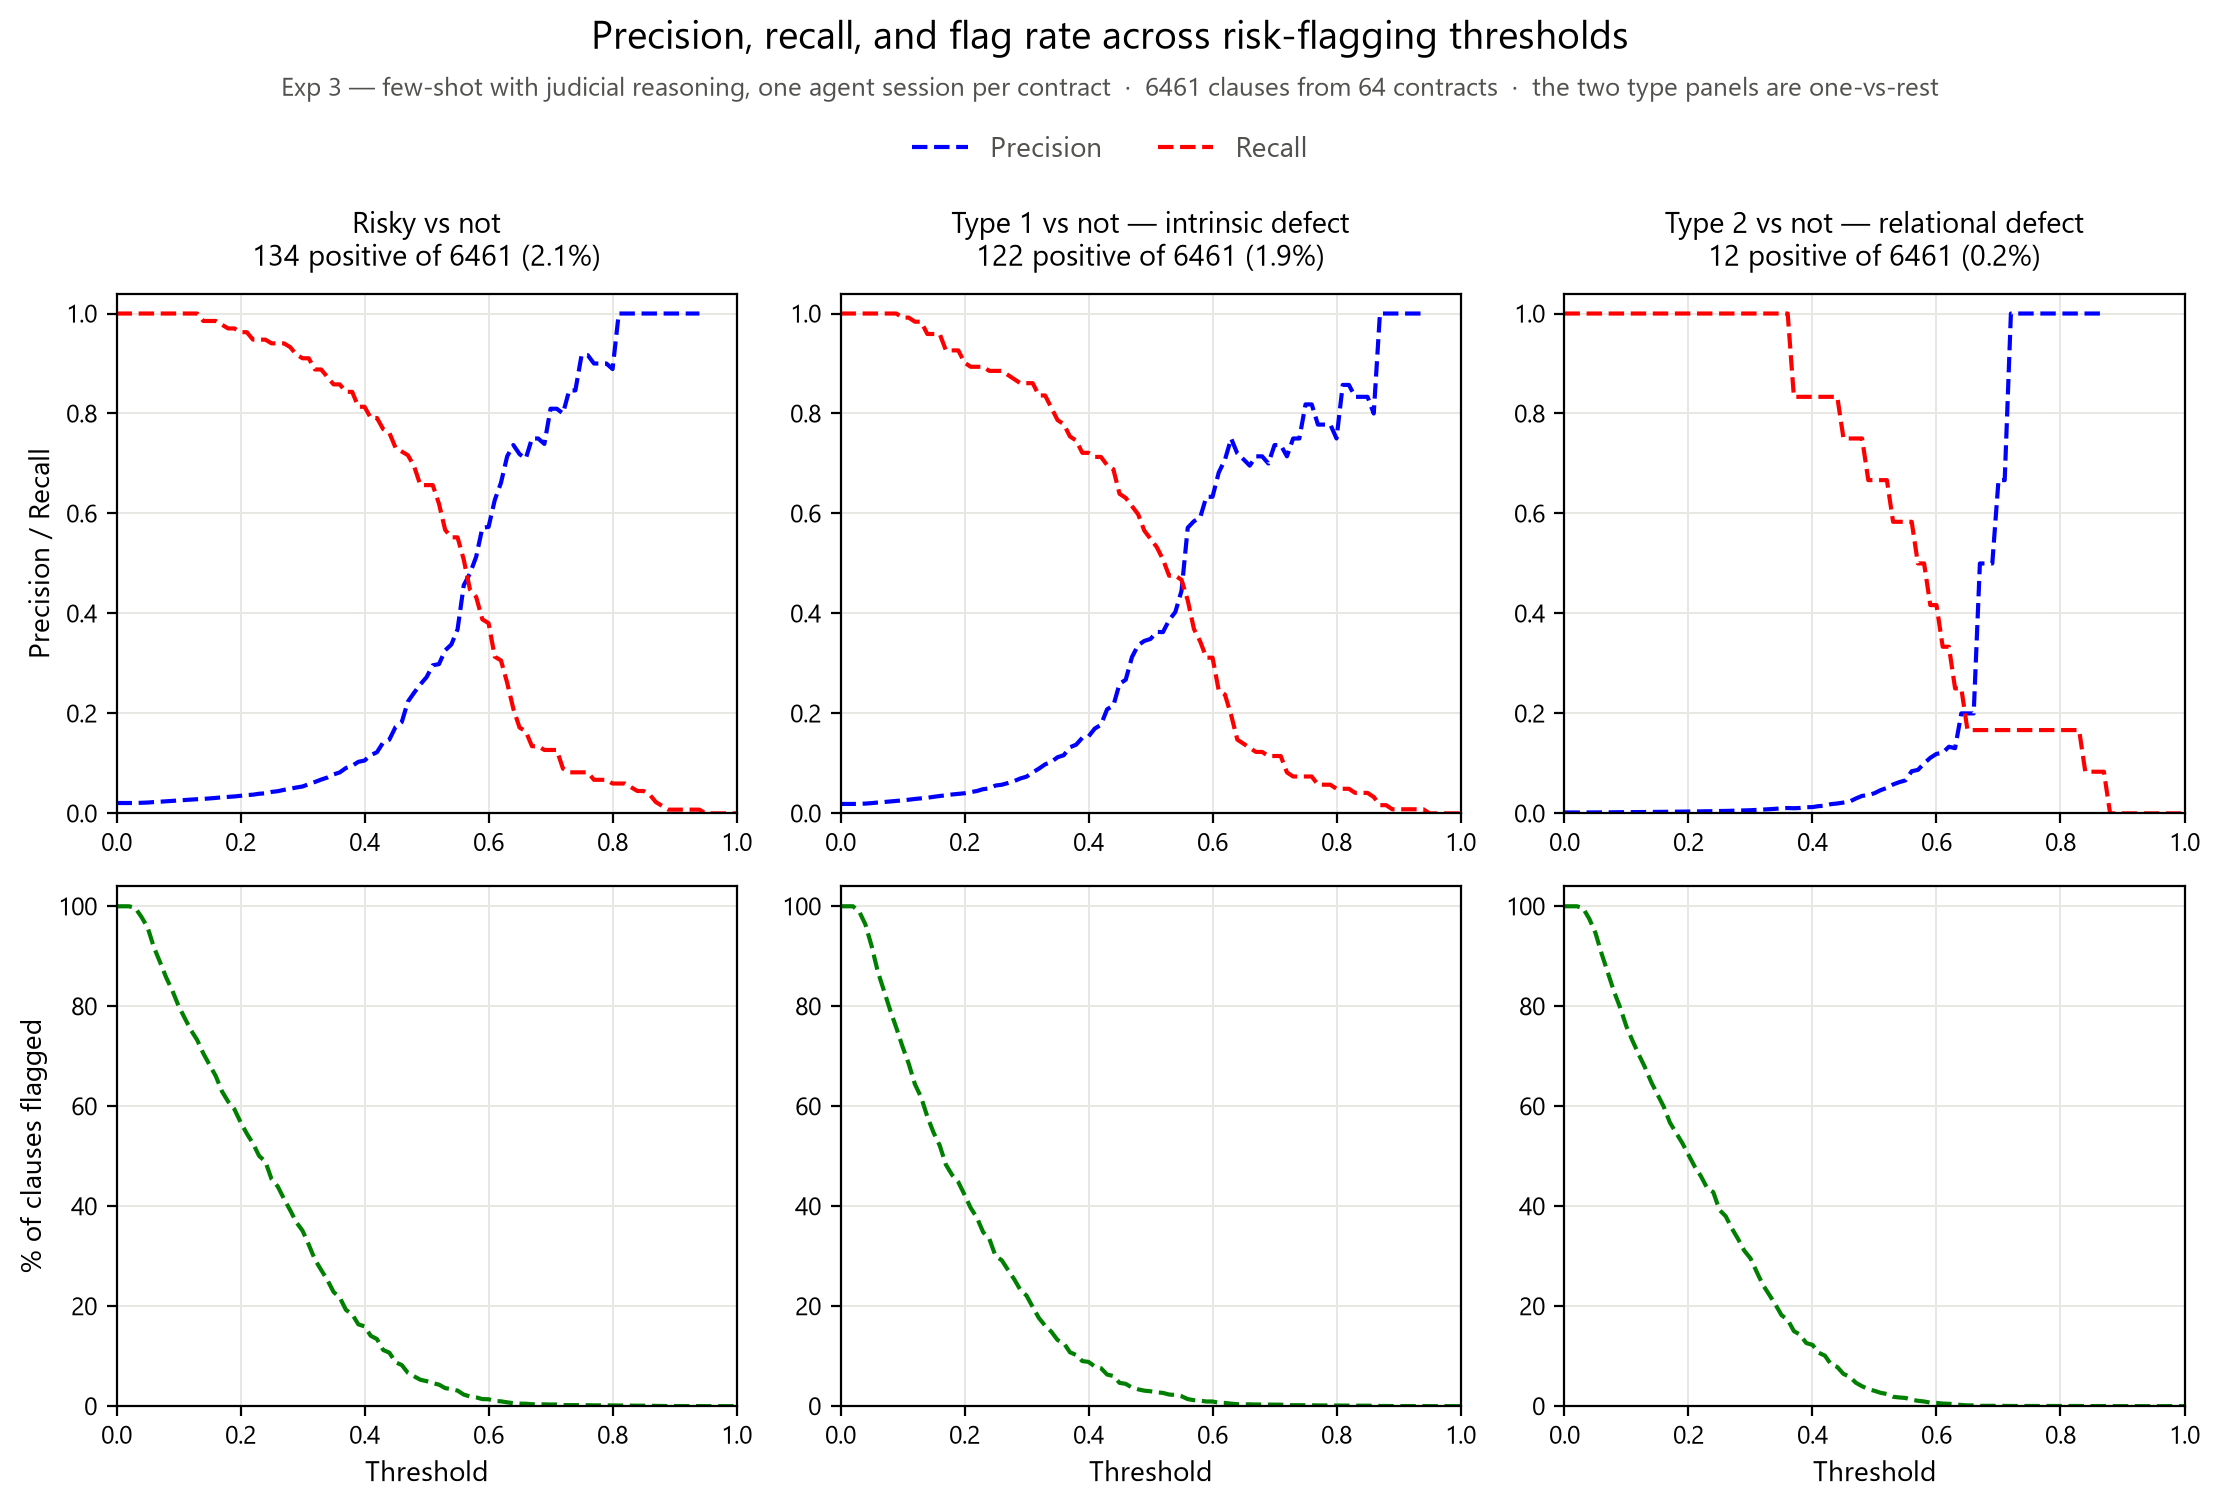
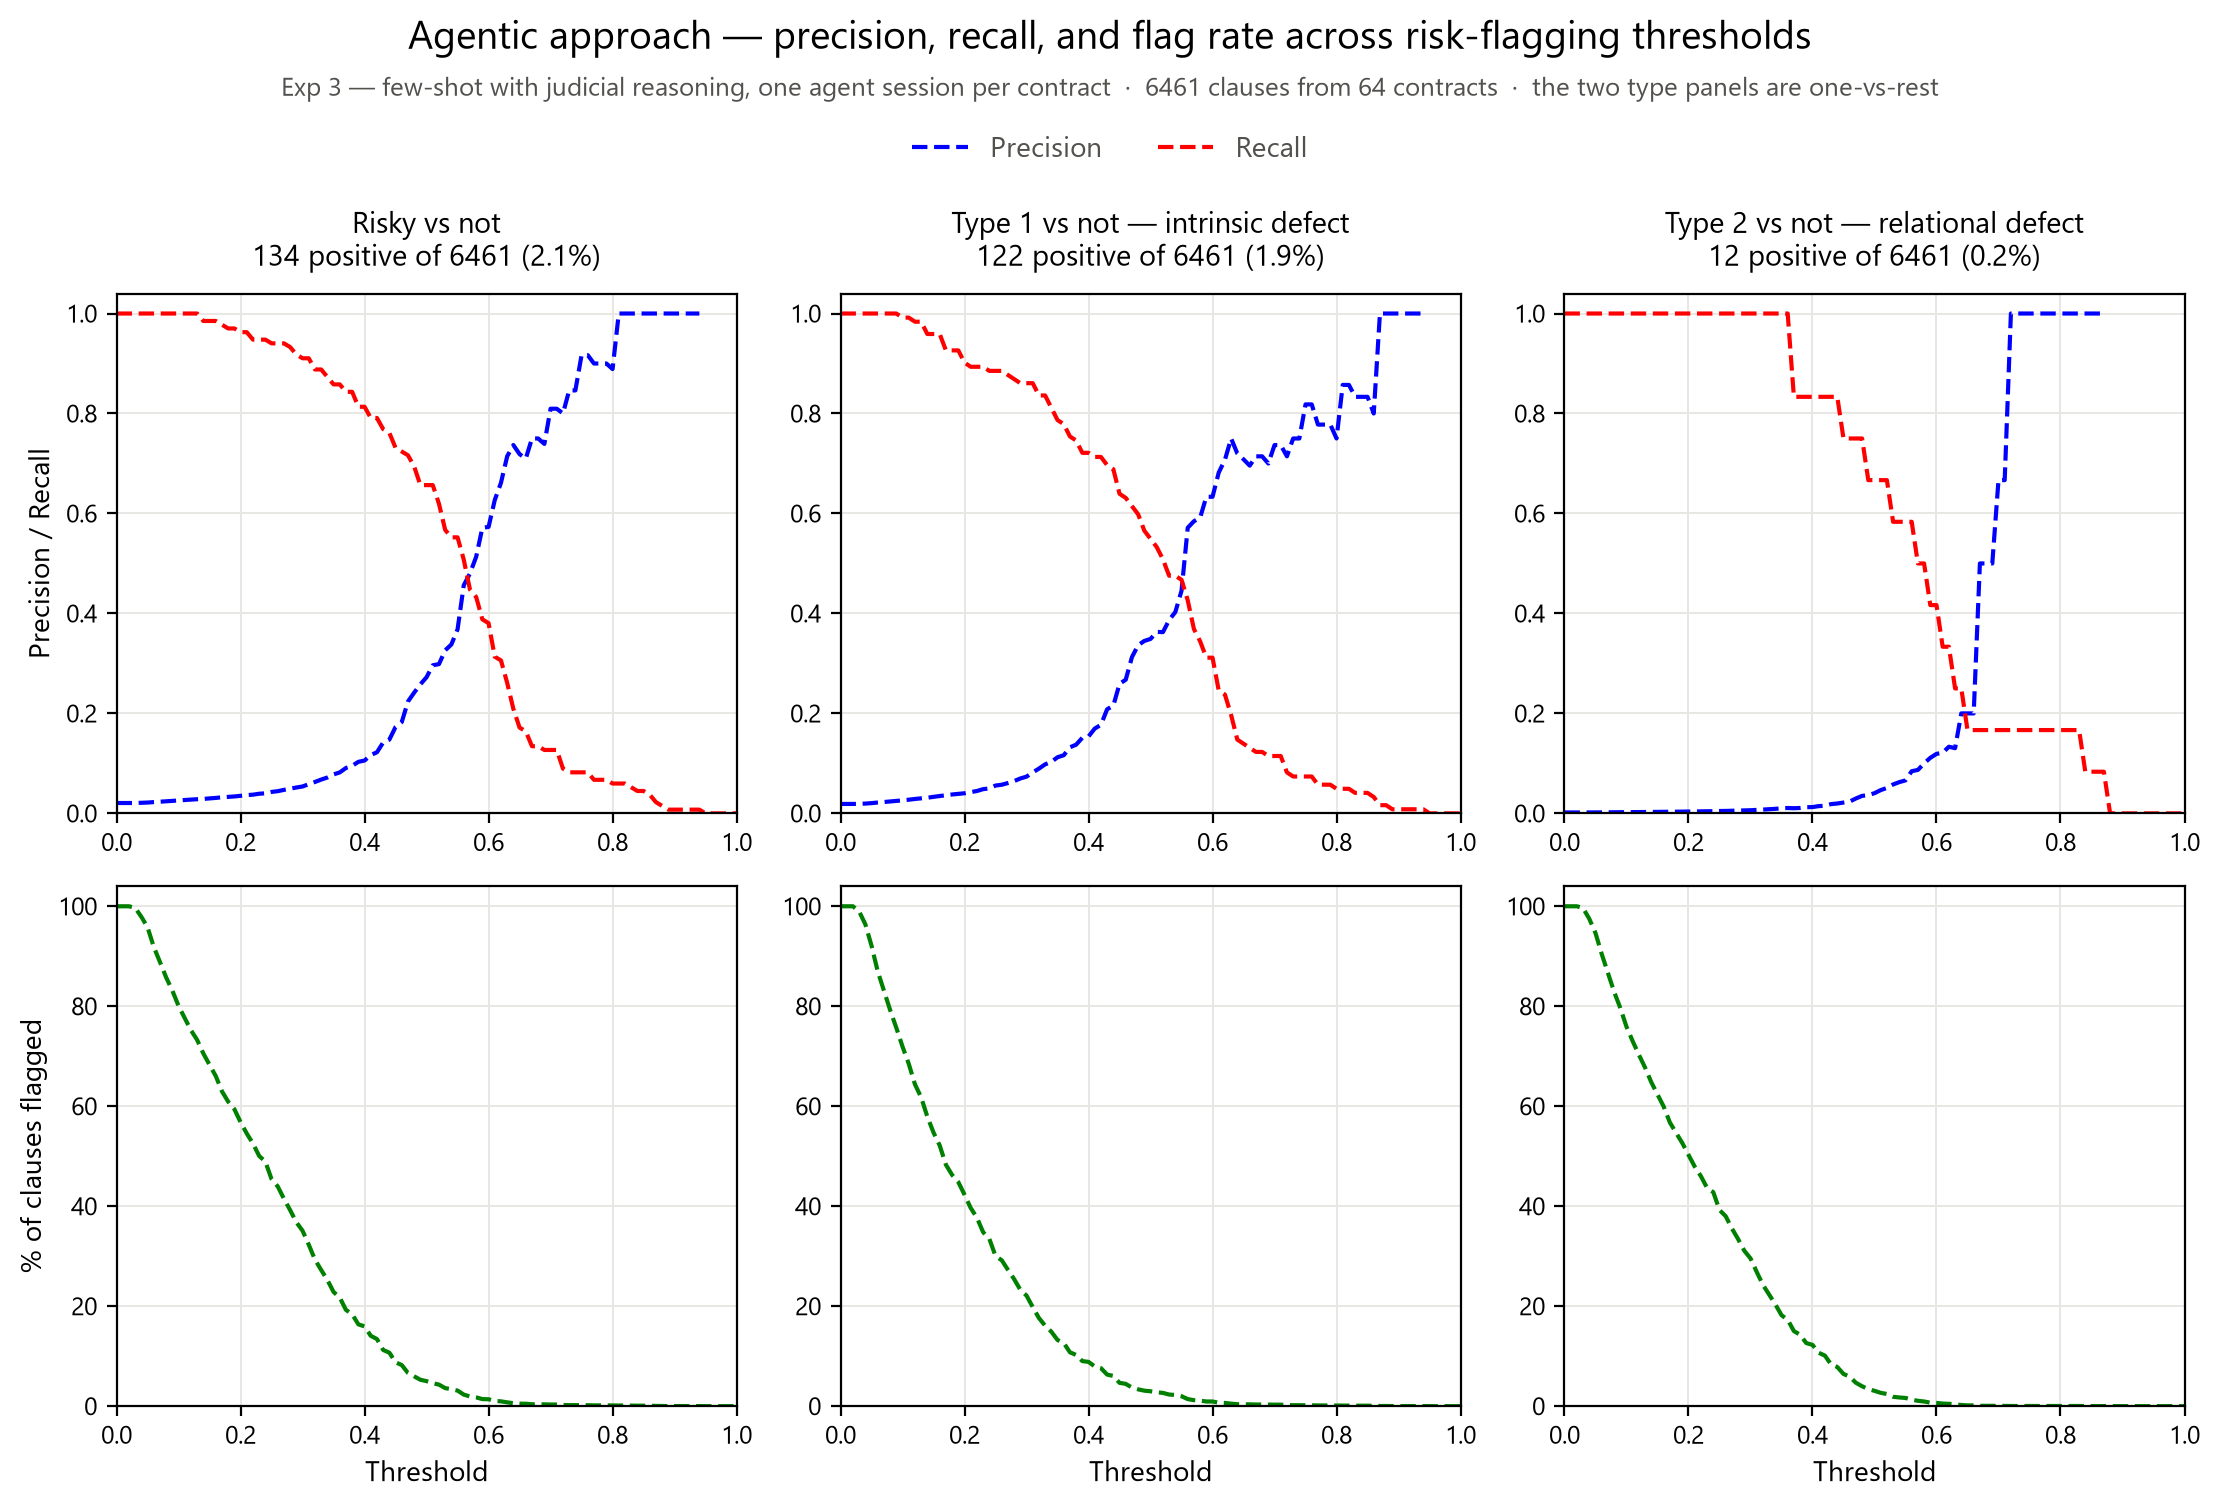
update figures

Changed region(s): [[0.1865, 0.0, 0.8081, 0.0312]]

diff --git a/src/experiments/plot_exp3_thresholds.py b/src/experiments/plot_exp3_thresholds.py
@@ -54,10 +54,15 @@ OUT_DIR = os.path.join(ROOT, "output")
 FIG_DIR = os.path.join(OUT_DIR, "figures")
 
 # The two experiments write the same columns, so one figure script serves both.
+# Each entry is (predictions file, figure file, title, subtitle). The approach is
+# named in the TITLE, because the two figures are read side by side and a reader
+# should not have to work out which one they are looking at from the filename.
 RUNS = {
     "llm_api": ("exp3_llm_api_preds.csv", "exp3_llm_api_threshold_curves.png",
+                "LLM API call",
                 "few-shot with judicial reasoning, one call per contract"),
     "agent": ("exp3_agent_preds.csv", "exp3_agent_threshold_curves.png",
+              "Agentic approach",
               "few-shot with judicial reasoning, one agent session per contract"),
 }
 
@@ -124,7 +129,10 @@ def main():
     ap.add_argument("--run", choices=sorted(RUNS), default="llm_api",
                     help="which experiment's predictions to plot")
     args = ap.parse_args()
-    preds_name, fig_name, subtitle = RUNS[args.run]
+    # `run_title`, not `title` — the panel loops below bind `title` to each
+    # panel's own name, and a shared name would put the last panel's title on
+    # the whole figure.
+    preds_name, fig_name, run_title, subtitle = RUNS[args.run]
     preds = os.path.join(OUT_DIR, preds_name)
 
     rows = load(preds)
@@ -186,8 +194,8 @@ def main():
     axes[0][0].set_ylabel("Precision / Recall", fontsize=10)
     axes[1][0].set_ylabel("% of clauses flagged", fontsize=10)
 
-    fig.suptitle("Precision, recall, and flag rate across risk-flagging thresholds",
-                 fontsize=14, x=0.5, y=0.985)
+    fig.suptitle(f"{run_title} — precision, recall, and flag rate across "
+                 f"risk-flagging thresholds", fontsize=14, x=0.5, y=0.985)
     fig.text(0.5, 0.935,
              f"Exp 3 — {subtitle}  ·  "
              f"{len(rows)} clauses from {n_contracts} contracts  ·  "
